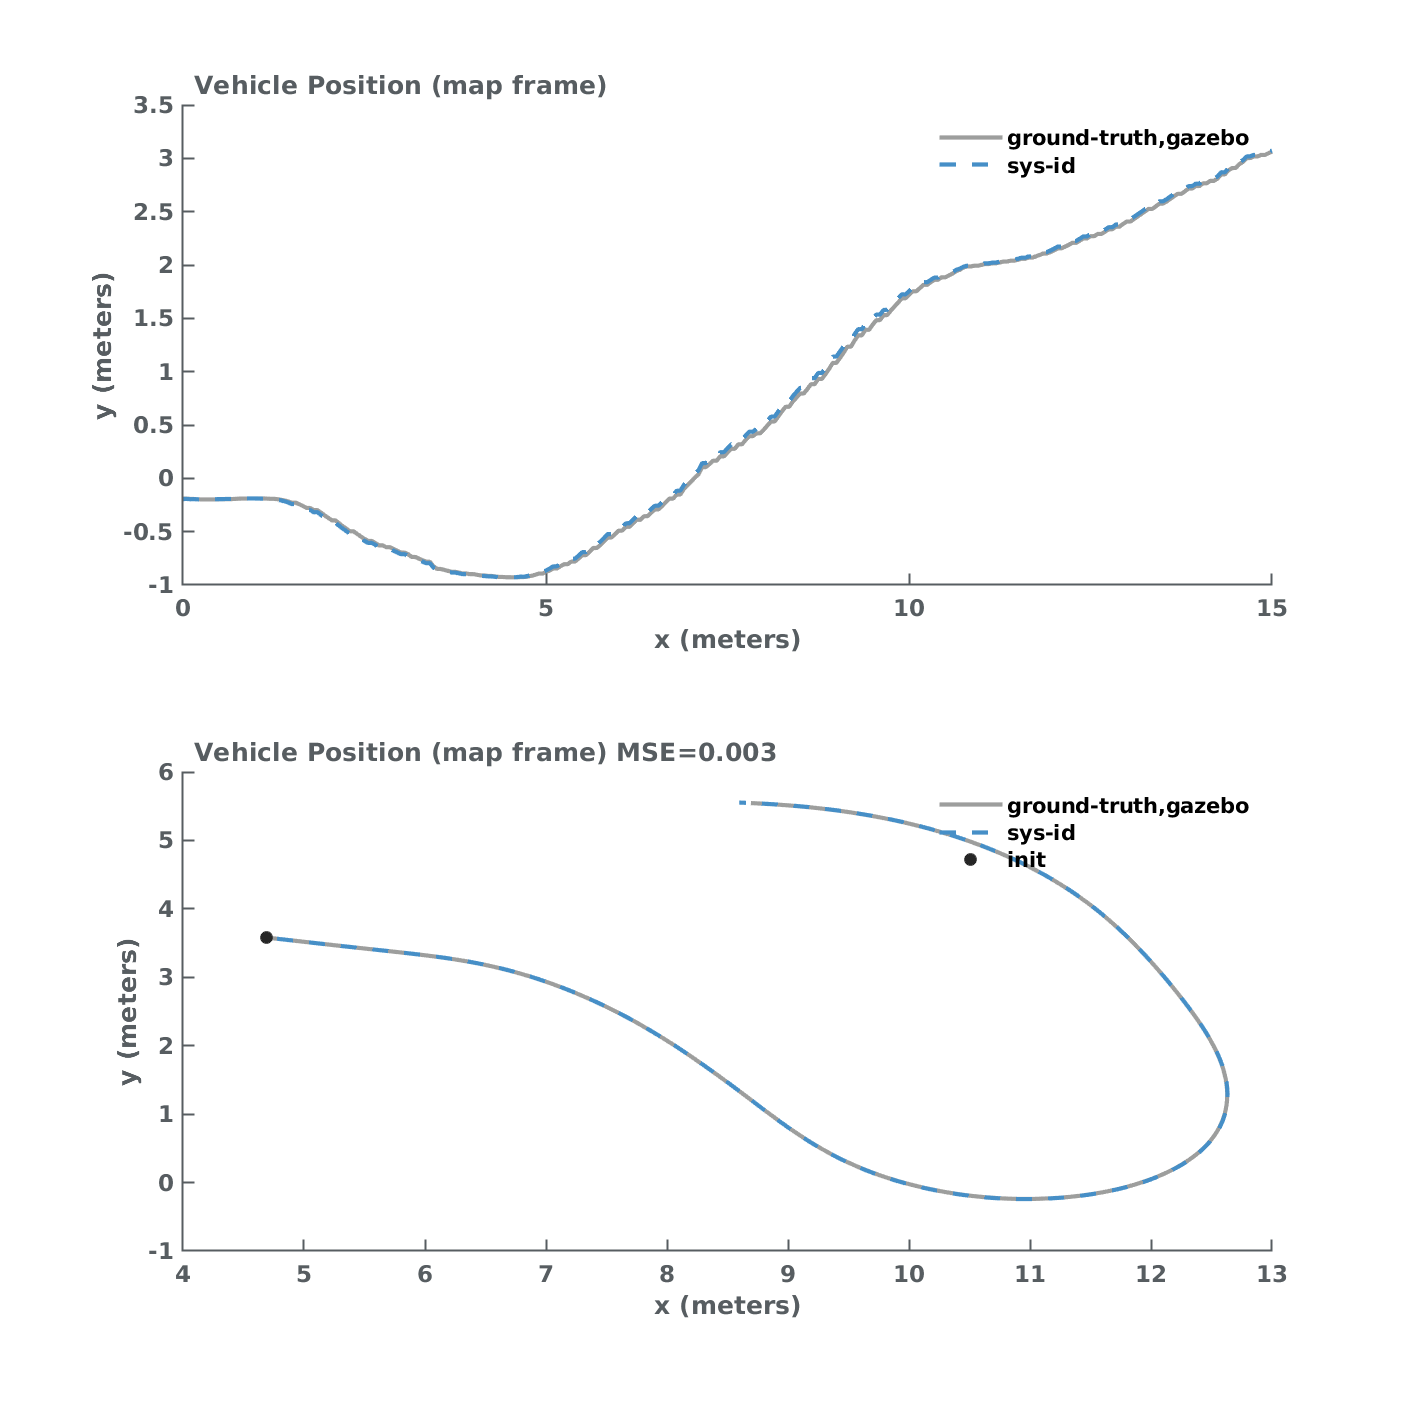
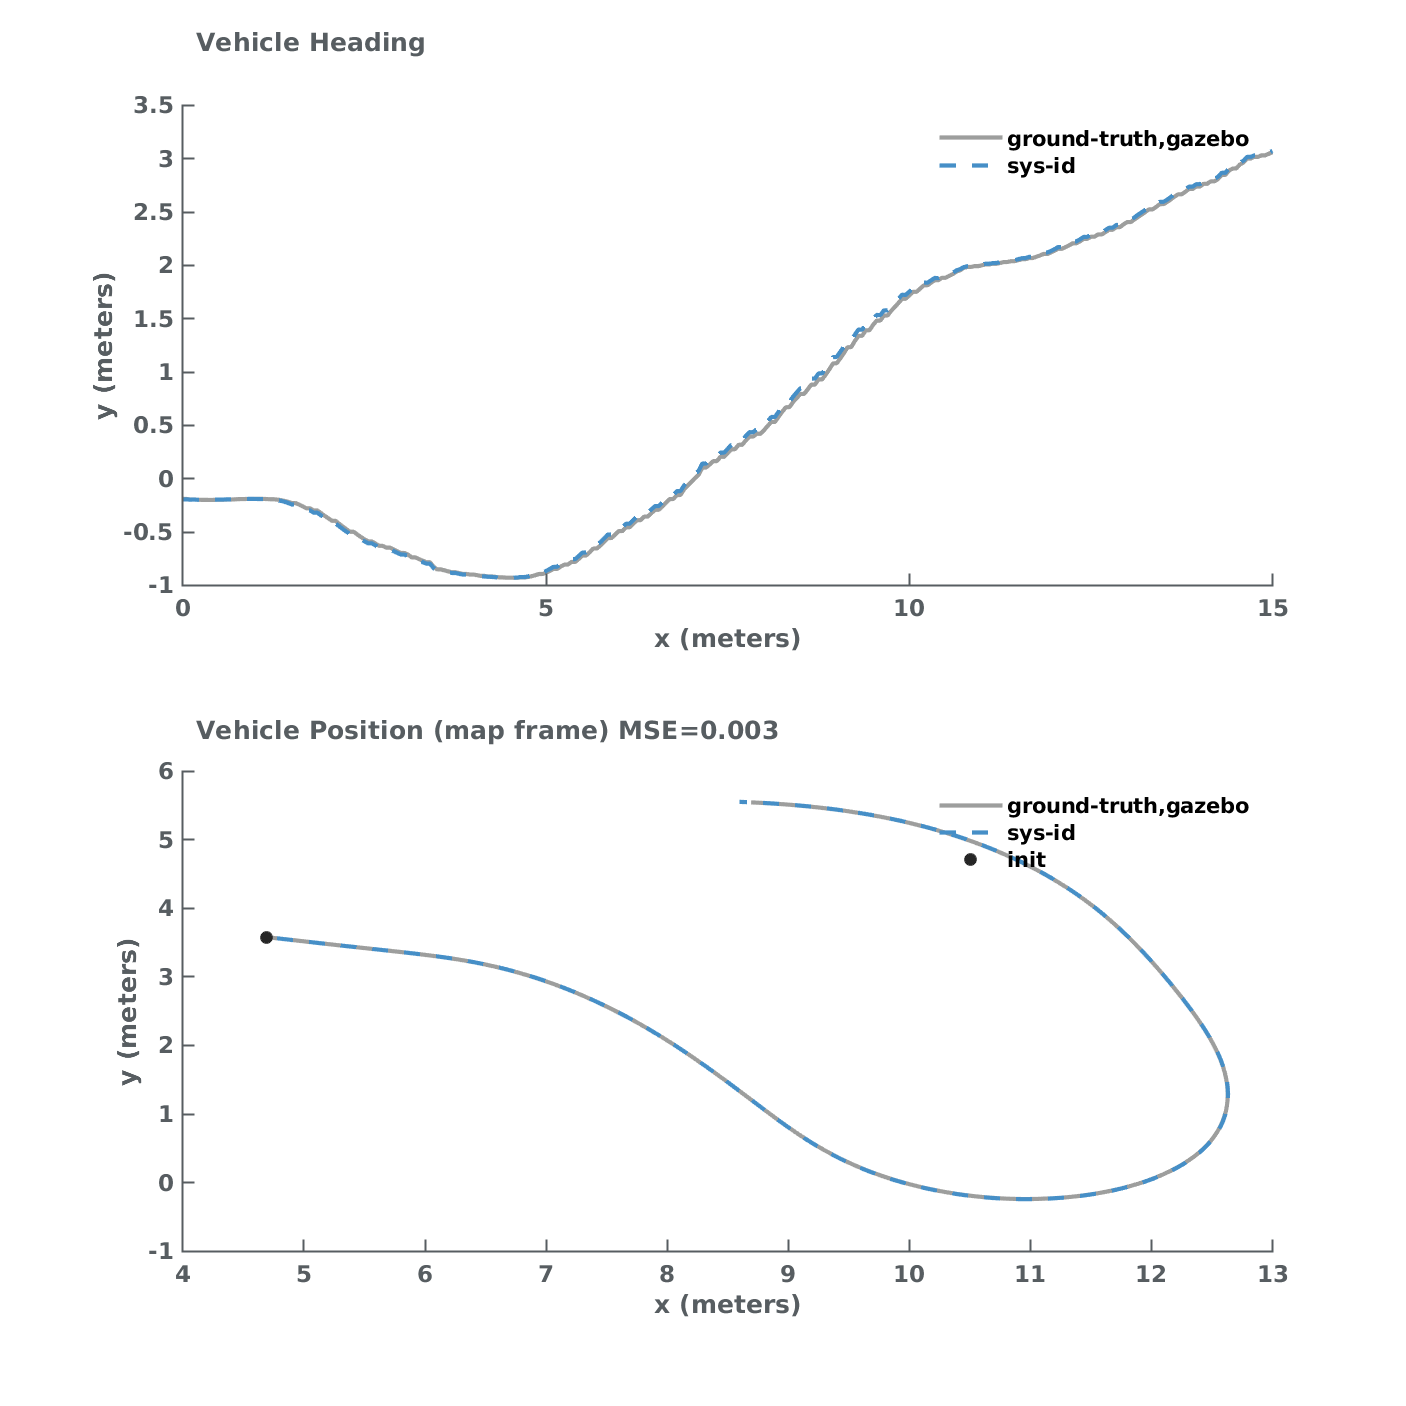
plotting and small changes

diff --git a/src/race/sys_id/bicycle_model_validation.m b/src/race/sys_id/bicycle_model_validation.m
@@ -1,12 +1,13 @@
 % validate the sysid model returned from the grey-box system identification
 % specify the parameters obtained from the sys-id in the file
 % simulate_bicycle_euler.m
+
 mse = validate_experiment('csv/data_15870_0.csv');
 mse1 = validate_experiment('csv/data_15870_2.csv');
 mse2 = validate_experiment('csv/data_15870_3.csv');
 mse3 = validate_experiment('csv/data_15870_5.csv');
 mse4 = validate_experiment('csv/data_15870_6.csv');
 mse5 = validate_experiment('csv/data_15870_8.csv');
-
-mses = [mse,mse1,mse2,mse3,mse4,mse5];
+mse6 = validate_experiment('csv/data_15870_9.csv');
+mses = [mse,mse1,mse2,mse3,mse4,mse5,mse6];
 avg_mse = mean(mses);

diff --git a/src/race/sys_id/validate_experiment.m b/src/race/sys_id/validate_experiment.m
@@ -45,7 +45,7 @@ set(gca,'box','off')
 legend boxoff 
 xlabel('x (meters)') 
 ylabel('y (meters)') 
-t = title("Vehicle Position (map frame)",'Color',[87, 93, 97]/255);
+t = title("Vehicle Heading",'Color',[87, 93, 97]/255);
 
 subplot(2,2,[3,4]);
 plot(x(1,:),x(2,:),'-','Color', [157, 158, 157]/255,'DisplayName','ground-truth,gazebo','LineWidth',2)

diff --git a/src/computer_vision/training/nn/conv/dave2.py b/src/computer_vision/training/nn/conv/dave2.py
@@ -61,6 +61,7 @@ class DAVE2:
 
 if __name__=="__main__":
     model=DAVE2.build(66,200,3,1)
+    print(model.summary())
     #This is responsible for constructing a graph based on the layers inside 
     #The input model and then writing the graph to disk an image
     plot_model(model, to_file="DAVE3.png",show_shapes=True)

diff --git a/src/race/training/train_lidar_classification.py b/src/race/training/train_lidar_classification.py
@@ -31,7 +31,6 @@ def soft_acc(y_true, y_pred):
 
 # load model without classifier layers
 model = FNN.build(9,1,64)
-
 df=pd.read_csv(args['dataset'], sep=',',header=None).dropna()
 
 inputs = df[df.columns[0:9]].values
